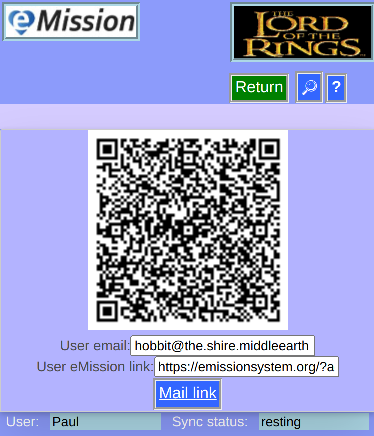
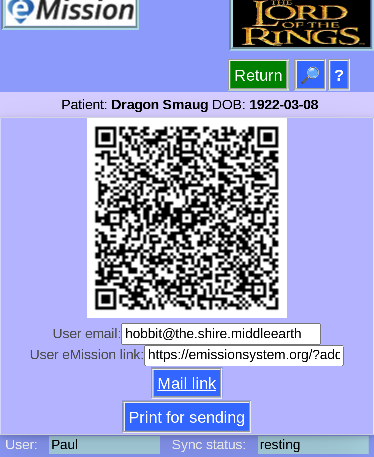
Help additions -- nearly complete

diff --git a/js/app.js b/js/app.js
@@ -232,7 +232,7 @@ const structDatabase = [
 const structDatabaseInfo = [
     {
         name: "db_name",
-        alias: "Dabase name",
+        alias: "Database name",
         hint: "Name of underlying database",
         type: "text",
     },
@@ -2606,8 +2606,7 @@ class Page { // singleton class
                             this.show( "InvalidPatient" );
                             });
                     } else {
-                        objectPatien
-                        tData = new OperationData(
+                        objectPatientData = new OperationData(
                         {
                             _id: Operation.makeId(),
                             type: "operation",

diff --git a/help/SendUser.md b/help/SendUser.md
@@ -1,0 +1,21 @@
+### eMission specific page help
+* General [screen layout](GeneralLayout.md)
+* Getting started
+* Working with the application
+
+
+# Send Invitation to User
+![Send User Menu](../images/SendUser.png)
+
+Arrive here from the [Edit User](UserEdit.md) or [Add User](UserNew.md) from the [User List](UserList.md). 
+
+*The is a privileged operation for a database administrator. It creates an email or "letter" for a new user.*
+
+The information is presented in redundant form:
+
+* The QR code is a complete invitation encoding the database address, name, username and password.
+* The Same information is explicitly given in the *User eMission link*
+* *__Mail link__* is a link to a *mailto* URL with the information ready to be emailed. It requires that an email application be accessible from your browser which is often restricted for security.
+* the *__Print for sending__* button links to a convenient page
+
+![](../images/printUser.png)

diff --git a/help/DatabaseInfo.md b/help/DatabaseInfo.md
@@ -4,10 +4,20 @@
 * Working with the application
 
 
-# Download
-![](../images/Download.png)
+# Database Info
+![](../images/DatabaseInfo.png)
 
-*Export data in __CSV__ format (comma-separated values) commonly usable by spreadsheet programs*
- 
-Arrive here from the *__Download__* button in [Privileged operations](Administration.md)
+Arrive here from
+
+* *__Database Information__* button in [Privileged operations](Administration.md)
+
+*Information on the local copy of the database as reported by pouchdb. No particular utility for anyone except and administrator debugging browser support.*
+
+All the data is read-only:
+
+* Database name: same as remote server's database name. Here *testdb* is the practice database with **Lord of the Rings** characters/
+* Document count: total number of records, including patioent, notes and operations
+* update_seq: used for syncing with central server
+* Database adapter: browser internal database type
+
 

diff --git a/help/MissionInfo.md b/help/MissionInfo.md
@@ -4,18 +4,15 @@
 * Working with the application
 
 
-# Mission Info
-![](../images/MissionInfo.png)
+# Database Info
+![](../images/DatabaseInfo.png)
 
 Arrive here from
 
-* *__The Mission__* button in [Main Menu](MainMenu.md)
-* *__Mission Info__* button from [Mission List](MissionList.md)
+* *__Database Information__* button in [Privileged operations](Administration.md)
 
-*Add the data (including the mission name, logo, dates and information) relevant to this medical mission. Mission info is also included in [Search](SearchList.md)*
+*Information on the local copy of the database as reported by pouchdb. No particular utility for anyone except and administrator debugging browser support.*
 
-Like other data entry screen, press *__Edit__* to start editing the data.
+All the data is read-only:
 
-![](../images/MissionList_edit.png)
-
-Then *__Save Changes__* or *__Cancel__*.
+* Database name

diff --git a/help/OperationNew.md b/help/OperationNew.md
@@ -1,0 +1,27 @@
+### eMission specific page help
+* General [screen layout](GeneralLayout.md)
+* Getting started
+* Working with the application
+
+
+# New Operation
+![Operation New](../images/OperationNew.png)
+
+Arrive here from the *__Add Operation__* button on [Operation List](OperationList.md). (You can also edit a *placeholder* operation to effectively create a new operation as well.)
+
+*This is a single operation, either planned, scheduled or completed.*
+
+Automatically in *__Edit__* mode.
+
+Fields:
+
+* __Complaint__, __Procedure__ for this operation
+* __Surgeon__ includes a drop-down list
+* __Equipment__ for planing
+* __Status__ of the planned (or completed) operation for tracking
+* __Date-Time__ of the operation
+* Anticipated __duration__
+* __Laterality__
+
+Press *__Save Changes__* or *__Cancel__* when complete.
+

diff --git a/help/Access.md b/help/Access.md
@@ -1,0 +1,19 @@
+### eMission specific page help
+* General [screen layout](GeneralLayout.md)
+* Getting started
+* Working with the application
+
+
+# Database Info
+![](../images/Access.png)
+
+Arrive here from
+
+* *__Access Permissions__* button in [User List](UserList.md)
+
+*This is another view of the users, showing access by role rather than by name*
+
+Press *__Edit__* to change the access rights.
+
+*__Save Changes__* or *__Cancel__* when done.
+
